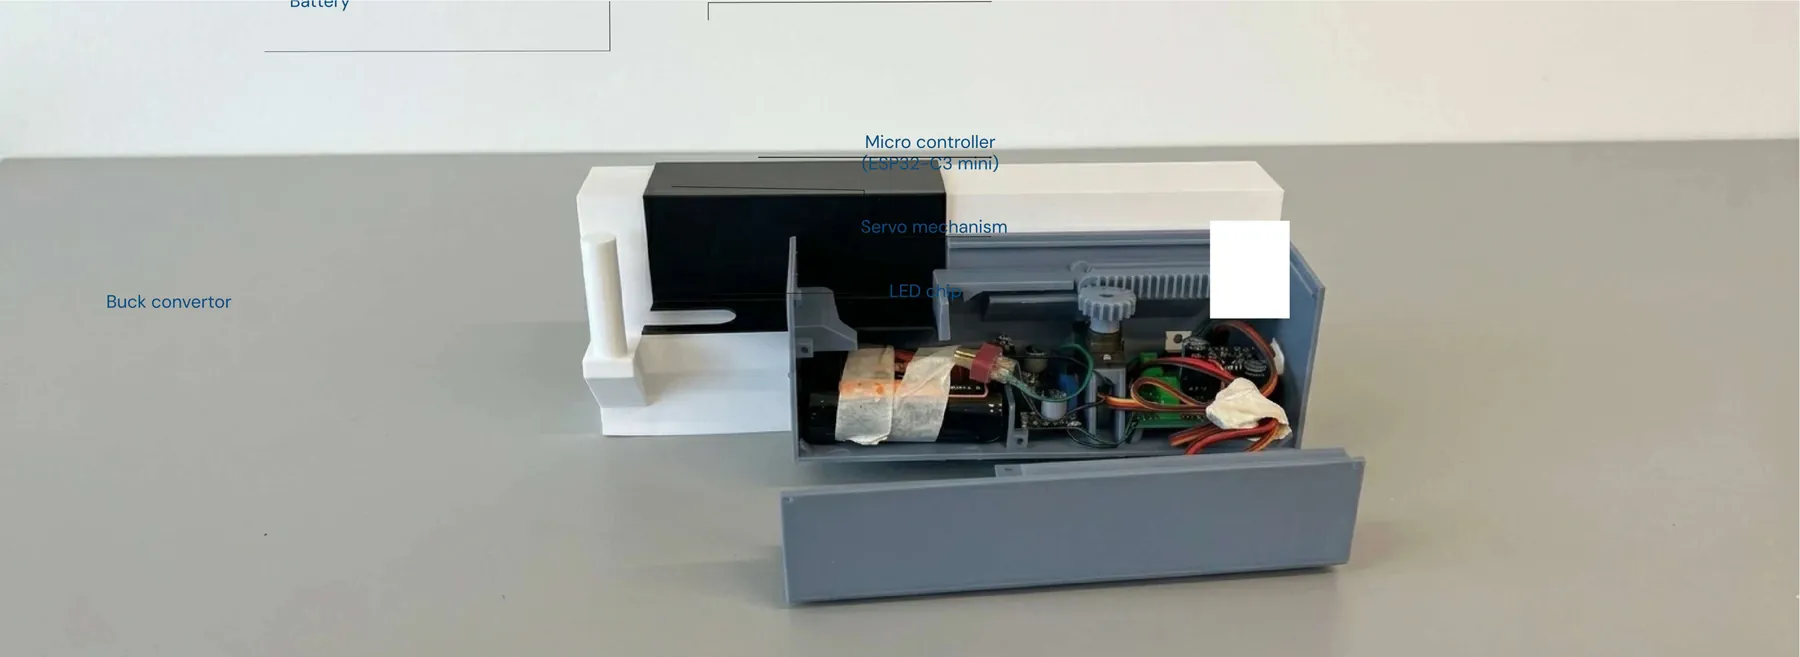
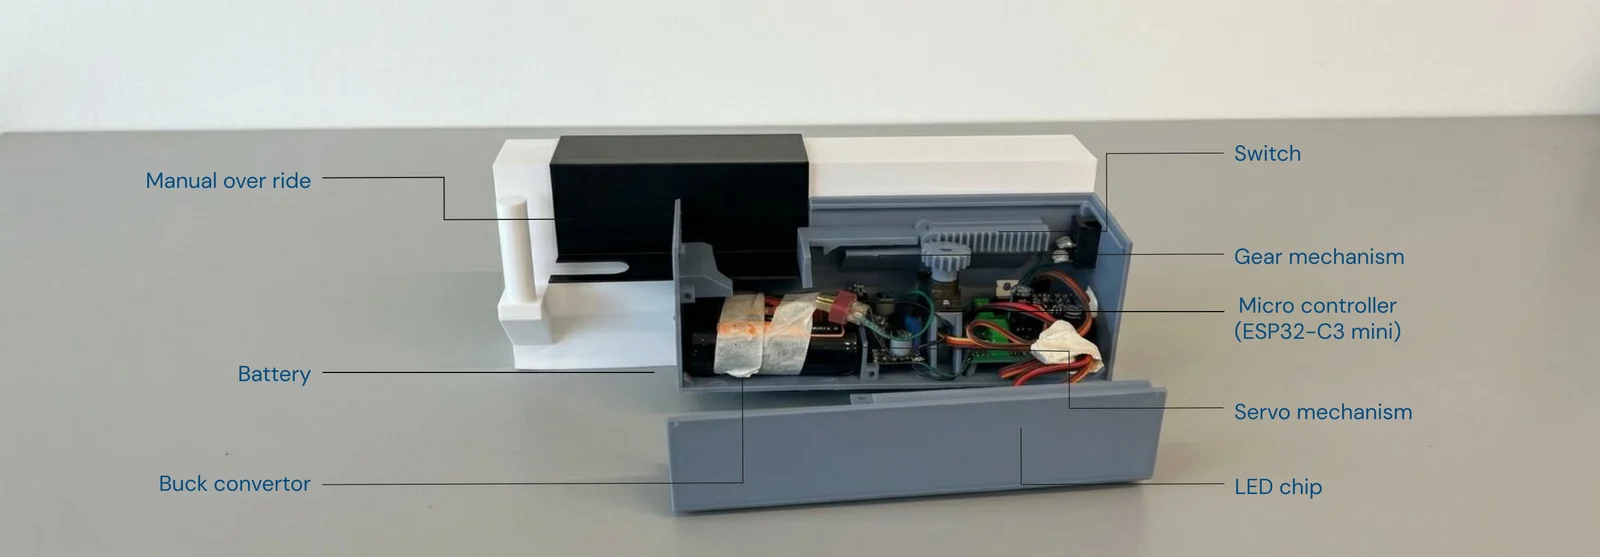
Totsecure: labelled parts-of-mechanism photo for the prototype figure
Claude-Session: https://claude.ai/code/session_01WcbvhFMLkJFsvgnNpnBruP

diff --git a/work/totsecure.html b/work/totsecure.html
@@ -313,8 +313,8 @@
             <figcaption><span class="mono">Video</span>How the mechanism works: a servo-driven hook locks over the wall mount, and pulls back to release it</figcaption>
           </figure>
           <figure class="fig reveal">
-            <div class="fig__frame"><img src="../assets/img/totsecure-prototype.webp" alt="Open prototype showing the ESP32 microcontroller, servo mechanism, gear and battery" loading="lazy"></div>
-            <figcaption><span class="mono">Fig. 5</span>Working prototype internals</figcaption>
+            <div class="fig__frame"><img src="../assets/img/totsecure-prototype.webp" alt="Open 3D-printed prototype with labelled parts: manual override, battery, buck converter, switch, gear mechanism, ESP32-C3 mini microcontroller, servo mechanism and LED chip" loading="lazy" width="1600" height="557"></div>
+            <figcaption><span class="mono">Fig. 5</span>Parts of the mechanism, in the working prototype</figcaption>
           </figure>
           <figure class="fig reveal">
             <div class="fig__frame"><img src="../assets/img/totsecure-cad.webp" alt="Assembled CAD technical drawings with dimensions and a bill of materials" loading="lazy"></div>
